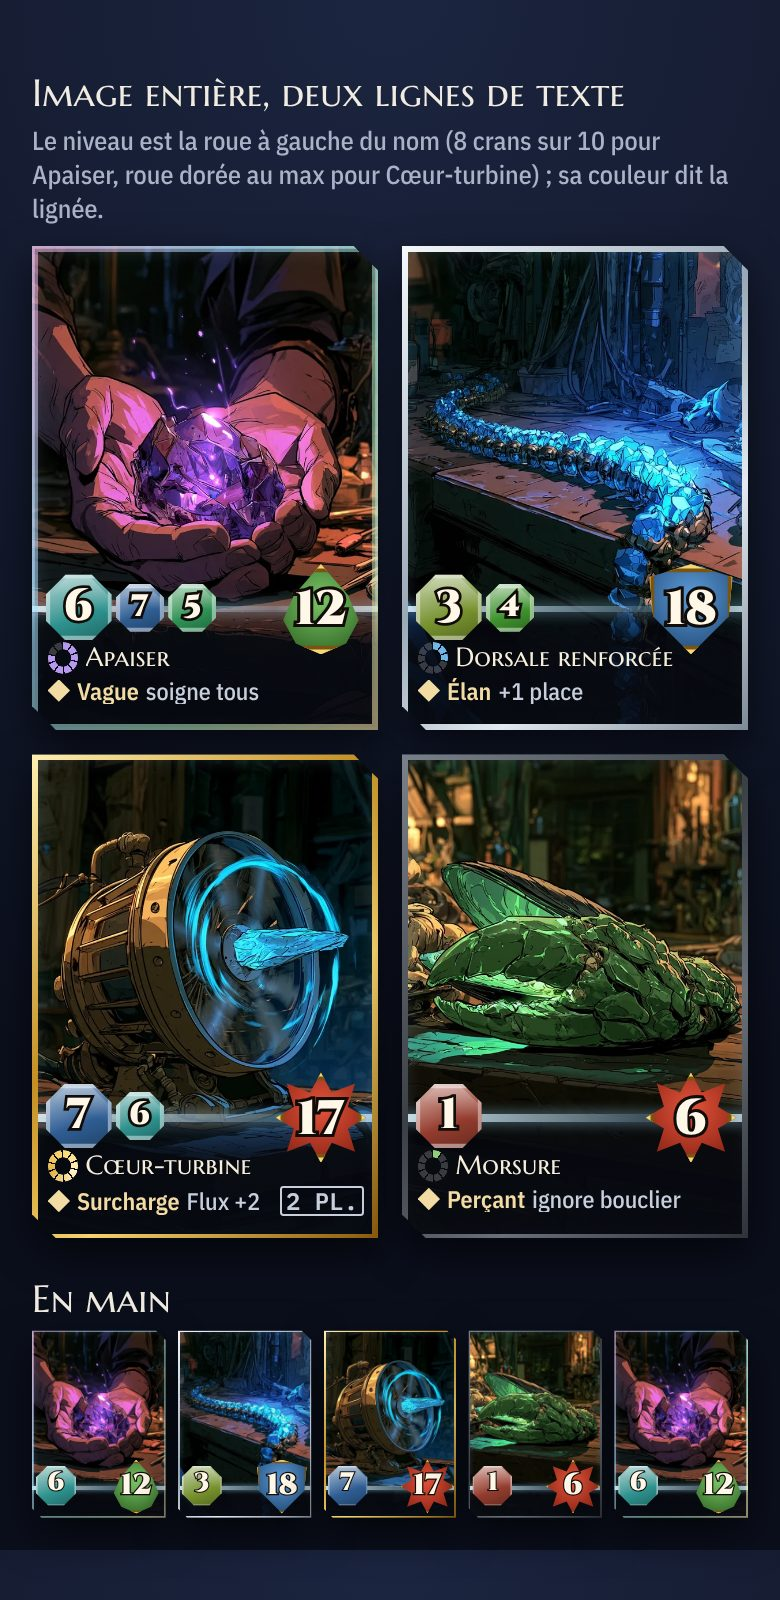
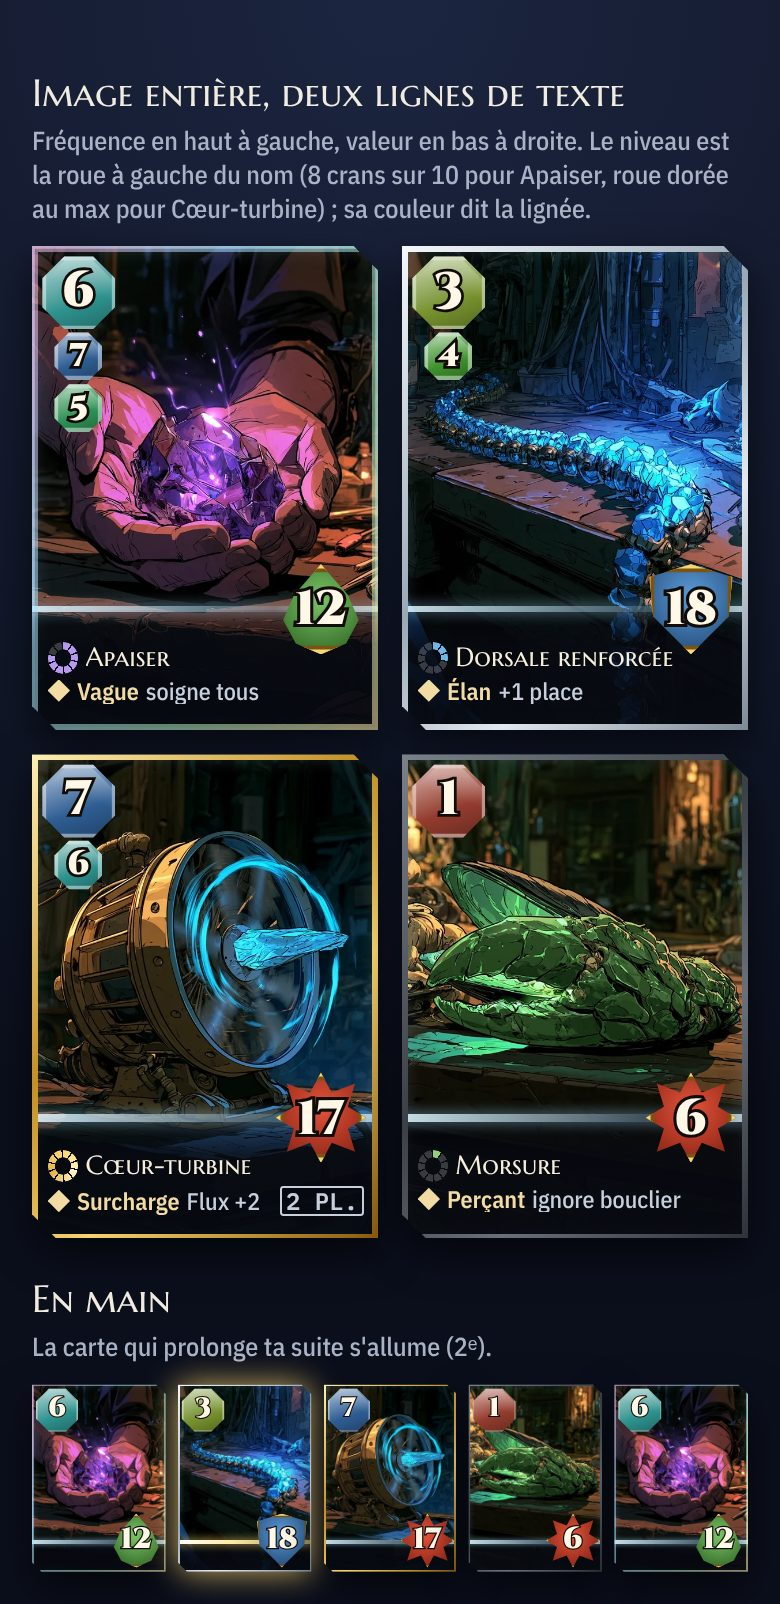
Carte optimale : la Fréquence remonte en haut à gauche
Claude-Session: https://claude.ai/code/session_01YVrYiWrba2w3WDzans6RUz

diff --git a/docs/carte-optimale.md b/docs/carte-optimale.md
@@ -27,22 +27,23 @@ qui ne couvre que le quart du bas, et l'image reste visible à travers.
 
 ```
 ┌──────────────────────────╲   liseré fin du métal tout autour
-│                           │
-│   ILLUSTRATION ENTIÈRE    │   0 → 75 % : aucune interface
-│   (format 5:7, rien de    │
-│    coupé)                 │
-│ ⬡6 ⬡7 ⬡5 ━━━━━━━━━━━ ⬢12 │   75 % : la COUTURE — Fréquences à gauche,
-│░◌ Apaiser░░░░░░░░░░░░░░░░░│          valeur dans son médaillon d'or à droite
+│ ⬡6                        │   en haut à gauche : la Fréquence (les autres en dessous, plus petites)
+│ ⬡7  ILLUSTRATION ENTIÈRE  │
+│ ⬡5  (format 5:7, rien de  │   0 → 75 % : aucune autre interface
+│      coupé)               │
+│━━━━━━━━━━━━━━━━━━━━━━ ⬢12 │   75 % : la couture, et la valeur dans son médaillon d'or
+│░◌ Apaiser░░░░░░░░░░░░░░░░░│
 ╲░◆ Vague  soigne tous░░░░░░│   voile de verre fumé : 2 lignes seulement
  ╲──────────────────────────┘
 ```
 
 1. **L'image entière.** Le cadre n'est plus qu'un liseré de métal fin (1,6 % de la largeur) tout autour : il dit le métal
    (fer, cuivre, argent, or, nacre irisée) sans rien cacher. Le badge « Nouvelle » passe en haut à droite, petit.
-2. **La couture : la ligne de suite.** Une bande de cristal lumineux au trois quarts de la hauteur. À gauche, la ou les
-   Fréquences (cristaux octogonaux, la principale en grand, les autres côte à côte — **plus d'animation qui les fait
-   défiler**) ; à droite, la valeur dans un médaillon d'or dont la forme dit l'action : éclat (attaque), écu (bouclier),
-   goutte (soin). En combat, la couture d'une carte qui prolonge ta suite s'allume : le combo se lit par la lumière.
+2. **La Fréquence en haut à gauche** (choix de Bryan : c'est là qu'on la cherche, et elle reste visible quand les cartes
+   se chevauchent). La principale en grand ; les autres, en dessous, en colonne et plus petites — **plus d'animation qui
+   les fait défiler**. En combat, le cristal d'une carte qui prolonge ta suite s'allume : le combo se lit par la lumière.
+   **La valeur en bas à droite**, dans un médaillon d'or posé sur la couture (une fine bande de cristal à 75 % de la
+   hauteur) ; sa forme dit l'action : éclat (attaque), écu (bouclier), goutte (soin).
 3. **Le voile : deux lignes, pas une de plus.** Dégradé de verre fumé flouté, donc toujours clair sur foncé quel que soit
    le métal ou l'image.
    - Ligne 1 : **la roue de niveau** puis le nom en entier. La roue a 10 crans (`COLLECTION.niveauMax`), remplis jusqu'au
@@ -92,7 +93,7 @@ Toutes les pièces sur fond noir uni (fond blanc pour le cristal à teinter) : j
 ### Étape 0 — Le concept (4 images, on en garde une)
 
 ```
-bold graphic fantasy illustration, clean confident ink outlines, cel shading with painted textures, vibrant warm palette, stylized expressive proportions, simplified features, collectible card art. empty game card frame design, front view, flat and perfectly symmetrical, a very thin ornate polished gold border running around the whole card, the whole inside is an open window filled with flat pure black, a thin luminous pale blue crystal seam runs horizontally across the card at three quarters of its height, one empty octagonal faceted crystal socket on the left end of the seam, one larger round empty gold medallion on the right end of the seam, top right and bottom left corners cut at 45 degrees, crystal and light, icy edges, family-friendly, no text, no letters, no numbers --ar 5:7 --sref https://levixqcl.github.io/empreintes/art/personnages/yse.webp --sw 60 --no text, letters, numbers, symbols, person, character, creature, thick frame
+bold graphic fantasy illustration, clean confident ink outlines, cel shading with painted textures, vibrant warm palette, stylized expressive proportions, simplified features, collectible card art. empty game card frame design, front view, flat and perfectly symmetrical, a very thin ornate polished gold border running around the whole card, the whole inside is an open window filled with flat pure black, one empty octagonal faceted crystal socket in the top left corner, a thin luminous pale blue crystal seam runs horizontally across the card at three quarters of its height, one larger round empty gold medallion on the right end of the seam, top right and bottom left corners cut at 45 degrees, crystal and light, icy edges, family-friendly, no text, no letters, no numbers --ar 5:7 --sref https://levixqcl.github.io/empreintes/art/personnages/yse.webp --sw 60 --no text, letters, numbers, symbols, person, character, creature, thick frame
 ```
 
 ### Étape 1 — Les cinq liserés de métal (`public/art/cadres/bord-<metal>.webp`, 1000 × 1400)
